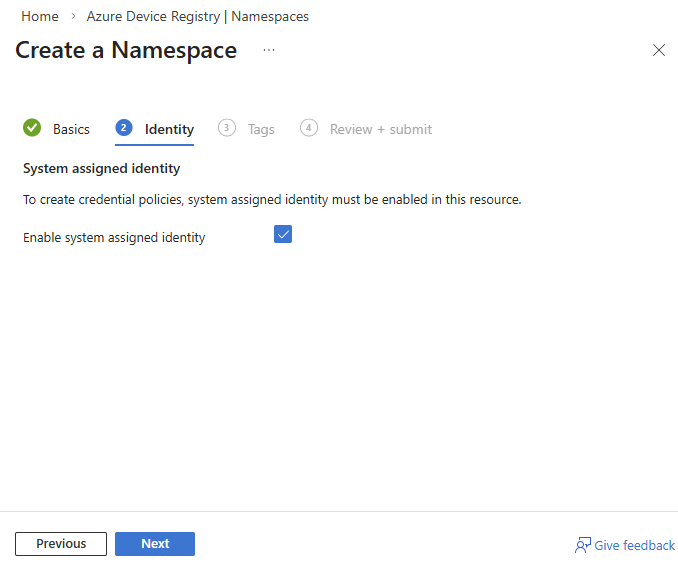
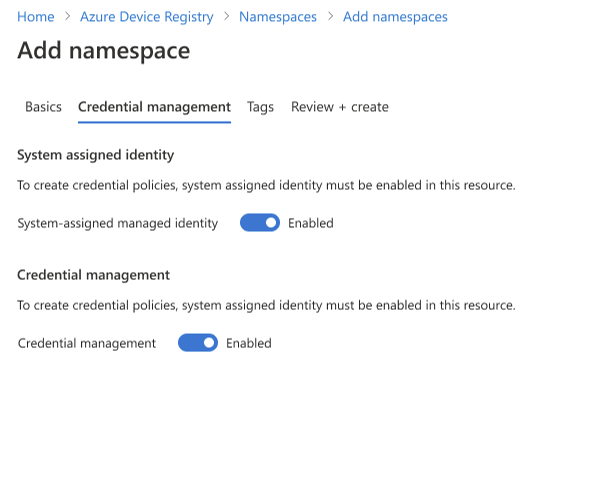
IoT Hub - cert PP rfrsh

diff --git a/includes/iot-hub-device-registry-portal.md b/includes/iot-hub-device-registry-portal.md
@@ -6,7 +6,7 @@ ms.author: cwatson
 ms.service: azure-iot-hub
 ms.topic: include
 ai-usage: ai-assisted
-ms.date: 01/26/2026
+ms.date: 03/10/2026
 ---
 
 ## Additional prerequisites for Azure portal
@@ -37,9 +37,9 @@ The setup process in this article includes the following steps:
 
 In this section, you set up your Azure Device Registry (ADR) namespace, enable managed identities, assign the necessary contributor role, and create a custom credential policy. These steps prepare your environment to securely manage device identities and certificates, and ensure your IoT hub can use ADR for device onboarding and certificate management.
 
-### Create an ADR namespace with system-assigned managed identity
+### Create an ADR namespace with credential management enabled
 
-When you create a namespace with a system-assigned managed identity, the process also creates a credential known as root CA and a default policy known as intermediate CA. [Certificate management](../articles/iot-hub/iot-hub-certificate-management-overview.md) uses these credentials and policies to onboard devices to the namespace.
+When you create a namespace with credential management enabled, the process creates a credential known as root CA and a default policy known as intermediate CA. [Certificate management](../articles/iot-hub/iot-hub-certificate-management-overview.md) uses these credentials and policies to onboard devices to the namespace.
 
 1. Sign in to the [Azure portal](https://portal.azure.com).
 1. Search for and select **Azure Device Registry**.
@@ -56,7 +56,7 @@ When you create a namespace with a system-assigned managed identity, the process
     :::image type="content" source="../articles/iot-hub/media/device-registry/iot-hub-namespace-1.png" alt-text="Screen capture that shows how to fill the basics tab for an ADR namespace in the Azure portal.":::
 
 1. Select **Next**.
-1. In the **Identity** tab, enable a system-assigned managed identity and a credential resource for your namespace. For more information about how ADR works with managed identities and credential resources, see [What is certificate management](../articles/iot-hub/iot-hub-certificate-management-overview.md).
+1. In the **Credential management** tab, enable **System-assigned managed identity** and **Credential management** for your namespace.
 
     - Managed identities allow your namespace to authenticate to Azure services without storing credentials in your code.
     - Credential resources securely store and manage device authentication credentials, such as API keys or certificates, for devices connecting to your namespace. When you enable this feature, you can set policies to control how certificates are issued and managed for your devices.
@@ -70,7 +70,7 @@ When you create a namespace with a system-assigned managed identity, the process
 1. Review your settings, then select **Create** to create your ADR namespace.
 
     > [!NOTE]
-    > The creation of the namespace with system-assigned managed identity might take up to five minutes.
+    > The namespace creation process might take up to five minutes.
 
 ### Get the principal ID for your namespace
 
@@ -116,7 +116,6 @@ Create custom policies within your ADR namespace to define how certificates are 
 
     :::image type="content" source="../articles/iot-hub/media/device-registry/custom-policy.png" alt-text="Screenshot of Azure Device Registry custom policy page in the Azure portal." lightbox="../articles/iot-hub/media/device-registry/custom-policy.png":::
 
-1. Select **Enable credential resource**  to turn on credential policies for your namespace, if they aren't already active.
 1. In the **Credential policies** page, select **+ Create** to create a new policy.
 1. A pane appears where you can configure the policy settings. In the **Basics** tab, complete the fields as follows:
     
@@ -124,6 +123,7 @@ Create custom policies within your ADR namespace to define how certificates are 
     | -------- | ----- |
     | **Name** | Enter a unique name for your policy. The name must be between 3 and 50 alphanumeric characters and can include hyphens (`'-'`). |
     | **Validity period (days)** | Enter the number of days the issued certificates are valid. |
+    | **Select a Root CA for certificates in this policy** | Accept the default value, **Use this namespace's Microsoft-issued Root CA (Default)**. |
 
 1. Select **Next** > **Create**.
 1. After it's created, select **Go to resource** and select the namespace.
